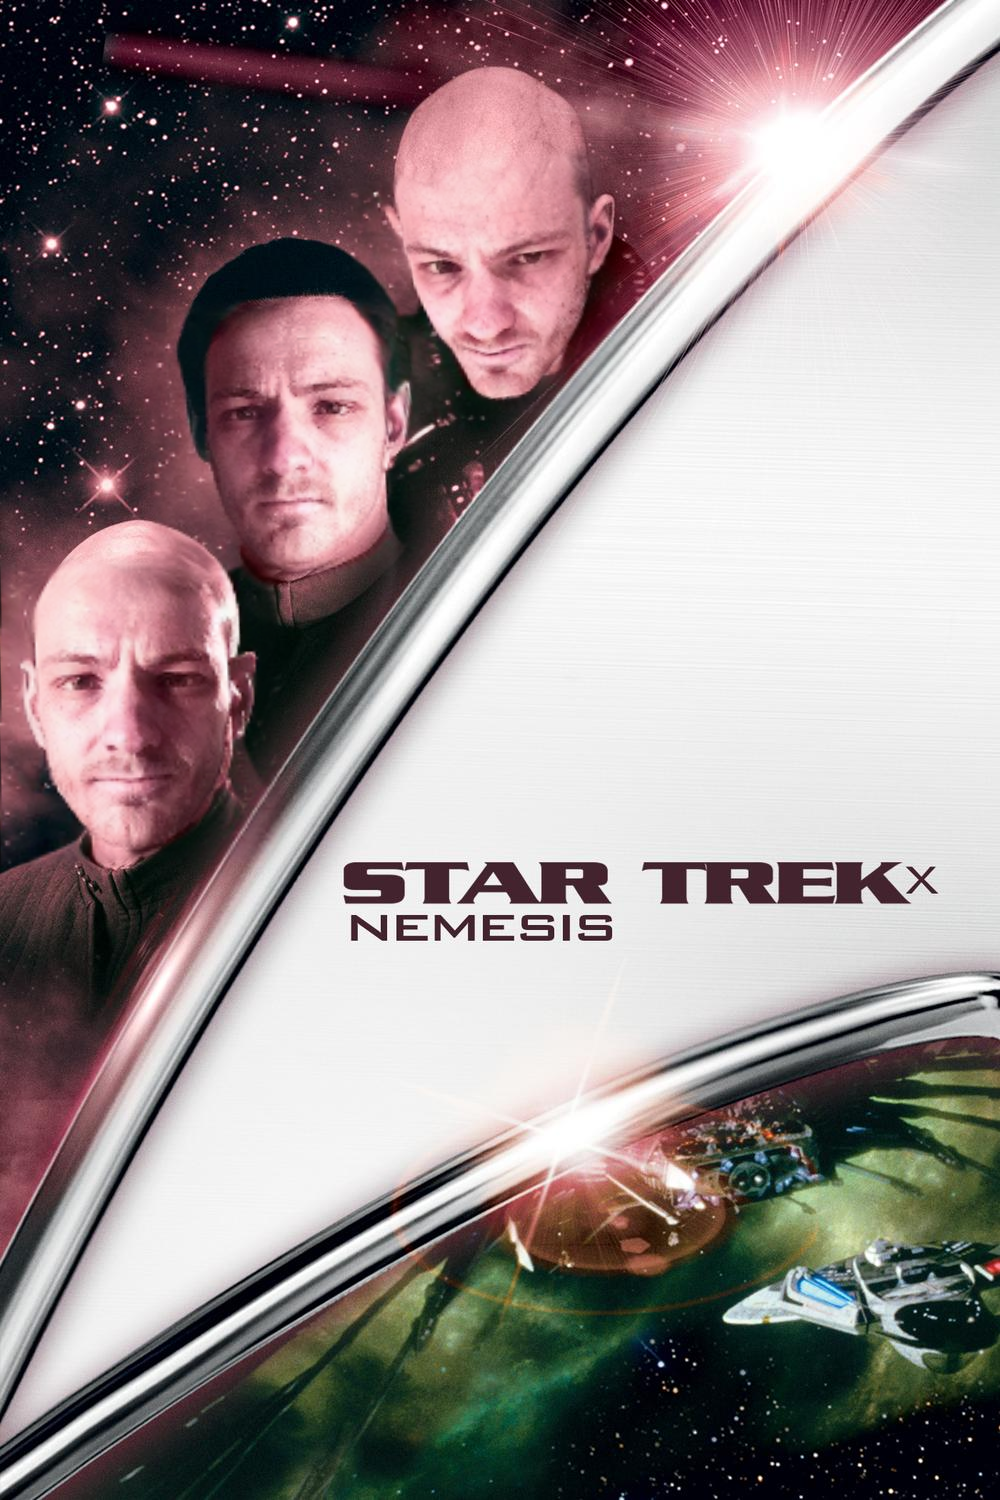
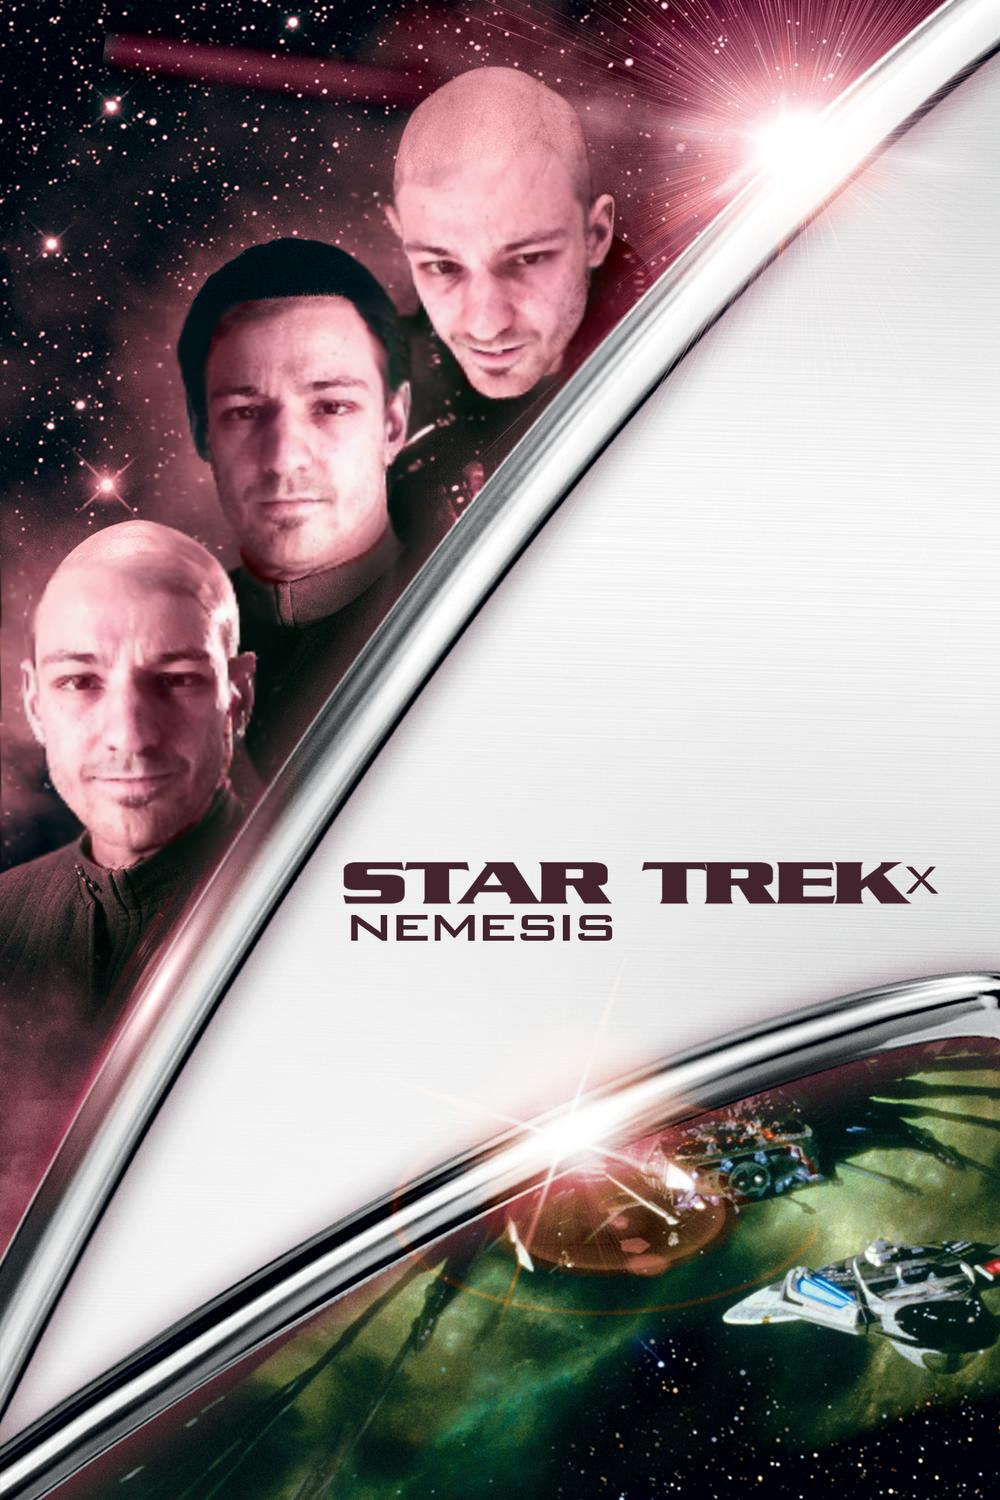
placeholder images updated

diff --git a/main.py b/main.py
@@ -12,18 +12,20 @@ from logic import upload_image, capture_image_from_webcam, primerjaj, faceswap, 
 #FACE comparison -> HISTOGRAM COMPARISON (NON WHITE PIXELS)
 
 def display_placeholder():
-    placeholder_path = 'ph.jpg'  # Path to your placeholder image
-    placeholder_image = Image.open(placeholder_path)
+    placeholder_path1 = 'dh.png'
+    placeholder_image1 = Image.open(placeholder_path1)
+    placeholder_path2 = 'mPoster.png'
+    placeholder_image2 = Image.open(placeholder_path2)
     
     # Resize for image_label
-    resized_image = placeholder_image.resize((300, 375), Image.Resampling.LANCZOS)
+    resized_image = placeholder_image1.resize((300, 375), Image.Resampling.LANCZOS)
     placeholder_photo = ImageTk.PhotoImage(resized_image)
     image_label.config(image=placeholder_photo)
     image_label.image = placeholder_photo
 
     # Resize for poster_label (if different size is needed)
     # If the size for poster_label is the same, you can reuse the 'placeholder_photo'
-    resized_poster = placeholder_image.resize((300, 375), Image.Resampling.LANCZOS)  # Adjust size as needed
+    resized_poster = placeholder_image2.resize((300, 375), Image.Resampling.LANCZOS)  # Adjust size as needed
     poster_photo = ImageTk.PhotoImage(resized_poster)
     poster_label.config(image=poster_photo)
     poster_label.image = poster_photo
